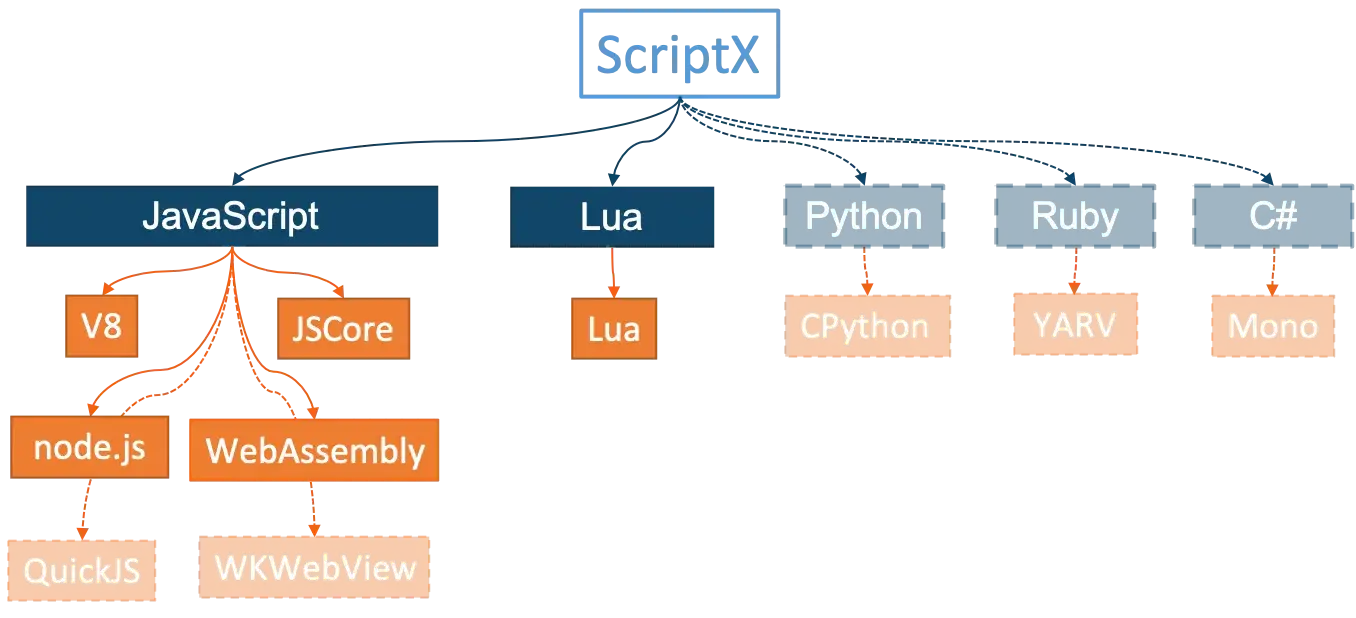
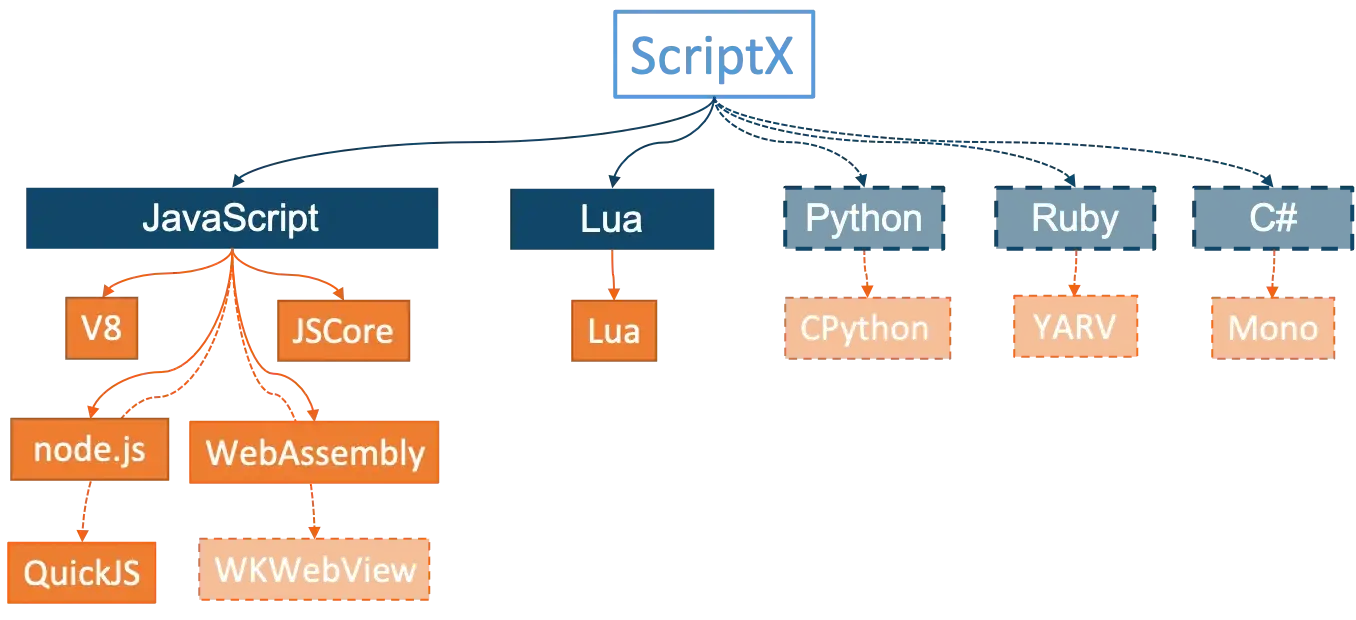
readme for QuickJs

diff --git a/README.md b/README.md
@@ -15,6 +15,20 @@ ScriptX not only isolates several JavaScript engines, but can even isolate diffe
 
 In ScriptX terminology, "front-end" refers to the external C++ API, and "back-end" refers to different underlying engines. The currently implemented back-ends include: V8, node.js, JavaScriptCore, WebAssembly, Lua.
 
+# States
+
+| backend | language | version | states |
+| :----: |  :----:  | :----:  | :----: |
+| V8 | JavaScript | 7.4+ | done |
+| JavaScriptCore | JavaScript | 7604.1.38.0.7+<br>（iOS 10+/macOS10.12+) | done |
+| Node.js | JavaScript | 14.x+ | done |
+| QuickJs | JavaScript | 2021-03-27 | done |
+| WebAssembly | JavaScript | Emscripten-2.0.5+ | done |
+| Lua | Lua | 5.4+ | done |
+| CPython | Python |  | todo |
+| YARV | Ruby |  | todo |
+| Mono | C# |  | todo |
+
 # Introduction
 
 The interface of ScriptX uses modern C++ features. And to be 100% in line with the C++ standard, completely cross-platform.

diff --git a/README-zh.md b/README-zh.md
@@ -16,6 +16,21 @@ ScriptX不仅隔离了几种JavaScript引擎，甚至可以隔离不同脚本语
 
 ScriptX的术语中，"前端"指对外的C++ API，"后端"则指不同的底层引擎，目前已经实现的后端有：V8, node.js, JavaScriptCore, WebAssembly, Lua.
 
+# 状态
+
+| 后端 | 语言 | 版本 | 状态 |
+| :----: |  :----:  | :----:  | :----: |
+| V8 | JavaScript | 7.4+ | done |
+| JavaScriptCore | JavaScript | 7604.1.38.0.7+<br>（iOS 10+/macOS10.12+) | done |
+| Node.js | JavaScript | 14.x+ | done |
+| QuickJs | JavaScript | 2021-03-27 | done |
+| WebAssembly | JavaScript | Emscripten-2.0.5+ | done |
+| Lua | Lua | 5.4+ | done |
+| CPython | Python |  | todo |
+| YARV | Ruby |  | todo |
+| Mono | C# |  | todo |
+
+
 # 简介
 
 ScriptX 的接口使用现代C++特性。并且做到100%符合C++标准，完全跨平台。

diff --git a/docs/zh/QuickJs.md b/docs/zh/QuickJs.md
@@ -1,0 +1,11 @@
+# QuickJs 引擎
+
+目前支持的QuickJs引擎版本为2021-03-27，其他版本理论上也能支持。
+
+说明：
+由于QuickJs的C-API比较首先，ScriptX将部分需要的能力通过JS来实现。
+
+但是仍然有部分能力（如弱引用）在JS中也不受支持。这个情况下你需要QuickJs打一个ScriptX提供的补丁包[backend/QuickJs/patch](../../backend/QuickJs/patch)，或直接使用笔者的 [fork](https://github.com/LanderlYoung/quickjs/tree/58ac957eee57e301ed0cc52b5de5495a7e1c1827) 。
+
+目前这个补丁仅影响 `script::Local<T>` 的功能。
+即使不打该补丁包，也仅仅是 `script::Local<T>` 表现为强引用即`script::Global<T>`，除此之外无差别。

diff --git a/docs/en/QuickJs.md b/docs/en/QuickJs.md
@@ -1,0 +1,13 @@
+# QuickJs engine
+
+Current support QuickJs version is 2021-03-27.
+
+Other version should be also supported.
+
+Note:
+
+QuickJs's C-API is limited, so ScriptX has workaround it mostly be using JS functions.
+
+But some of them are not available in JS, like WeakRef. In such case you may want to apply a patch file provided by ScriptX in [backend/QuickJs/patch](../../backend/QuickJs/patch), or just use the [fork](https://github.com/LanderlYoung/quickjs/tree/58ac957eee57e301ed0cc52b5de5495a7e1c1827) by the author.
+
+Currently the patch is only needed when you need the `script::Local<T>` to work as expected. Otherwise the `script::Local<T>` would behave like `script::Global<T>`.

diff --git a/docs/en/TOC.md b/docs/en/TOC.md
@@ -39,7 +39,8 @@ Before officially using ScriptX, please spend half an hour **read carefully** th
 7. [Lua language description](Lua.md)
 8. [WebAssemble Description](WebAssembly.md)
 9. [node.js description](NodeJs.md)
-9. [FAQ](FAQ.md)
-10. [Quick Experience/Start Guide](QuickStart.md)
-11. [Performance Related](Performance.md)
-12. [ScriptX at the 2020 Pure C++ Conference](PureCpp2020.md)
+10. [QuickJs description](QuickJs.md)
+10. [FAQ](FAQ.md)
+11. [Quick Experience/Start Guide](QuickStart.md)
+12. [Performance Related](Performance.md)
+13. [ScriptX at the 2020 Pure C++ Conference](PureCpp2020.md)

diff --git a/docs/zh/TOC.md b/docs/zh/TOC.md
@@ -39,7 +39,8 @@ ScriptX 中的一些重要类：
 7. [Lua语言说明](Lua.md)
 8. [WebAssemble说明](WebAssembly.md)
 9. [node.js说明](NodeJs.md)
-9. [常见问题](FAQ.md)
-10. [快速体验指南](QuickStart.md)
-11. [性能相关](Performance.md)
-12. [ScriptX在 2020年 Pure C++大会](PureCpp2020.md)
+9. [QuickJs说明](QuickJs.md)
+10. [常见问题](FAQ.md)
+11. [快速体验指南](QuickStart.md)
+12. [性能相关](Performance.md)
+13. [ScriptX在 2020年 Pure C++大会](PureCpp2020.md)
